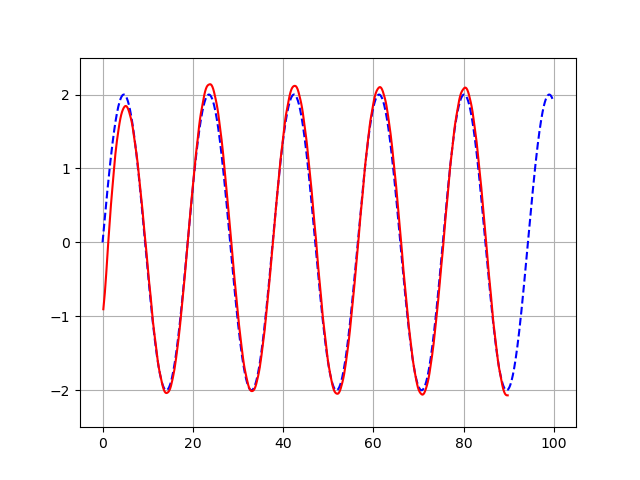
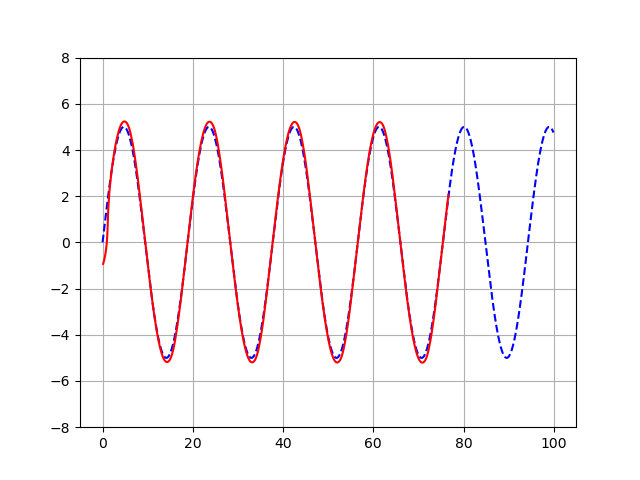
update pid_controller

diff --git a/path_tracking/test/pid_controller_test.cc b/path_tracking/test/pid_controller_test.cc
@@ -25,54 +25,71 @@ double calTargetIndex(vector<double> robot_state,
     dists.push_back(dist);
   }
   return min_element(dists.begin(), dists.end()) -
-         dists.begin(); //返回vector最小元素的下标
+         dists.begin(); // 返回vector最小元素的下标
 }
 
 int main() {
   vector<vector<double>> refer_path(1000, vector<double>(2));
-  vector<double> refer_x, refer_y; //保存参考数据用于画图
+  vector<double> refer_x, refer_y; // 保存参考数据用于画图
   // 生成参考轨迹
   for (int i = 0; i < 1000; i++) {
     refer_path[i][0] = 0.1 * i;
-    refer_path[i][1] = 2 * sin(refer_path[i][0] / 3.0);
+    refer_path[i][1] = 5 * sin(refer_path[i][0] / 3.0);
     refer_x.push_back(refer_path[i][0]);
     refer_y.push_back(refer_path[i][1]);
     //        cout<<refer_path[i][0]<<" ,"<<refer_path[i][1]<<endl;
   }
 
   // 运动学模型
-  KinematicModel ugv(0, -1, 0.5, 2, 2, 0.1);
+  KinematicModel ugv(0, -1, 0.5, 1.5, 2, 0.1);
 
-  // PID控制器
-  PID_controller PID(2.0, 0.01, 50, 0., PI / 6, -PI / 6);
-  //保存机器人（小车）运动过程中的轨迹
+  // PID控制器，用PID限制转角误差
+  PID_controller PID(3.0, 0.01, 30, 0., PI / 4, -PI / 4);
+  // 保存机器人（小车）运动过程中的轨迹
   vector<double> x_, y_;
-  //机器人状态
+  // 机器人状态
   vector<double> robot_state(2);
-  //运行500个回合
-  for (int i = 0; i < 500; i++) {
+  // 运行500个回合
+  for (int i = 0; i < 800; i++) {
     plt::clf();
     robot_state[0] = ugv.x;
     robot_state[1] = ugv.y;
-    //参考博客中的公式
+    // 参考博客中的公式
     double min_ind = calTargetIndex(robot_state, refer_path);
+    cout << i << " robot_state: x: " << robot_state[0]
+         << ", y:" << robot_state[1] << endl;
+    cout << i << " refer_path: x: " << refer_path[min_ind][0]
+         << ", y:" << refer_path[min_ind][1] << endl;
+    // 计算当前位置和轨迹最近点的相对位姿
+    // 朝向
     double alpha = atan2(refer_path[min_ind][1] - robot_state[1],
                          refer_path[min_ind][0] - robot_state[0]);
+    // 距离
     double l_d = sqrt(pow(refer_path[min_ind][0] - robot_state[0], 2) +
                       pow(refer_path[min_ind][1] - robot_state[1], 2));
+
+    if (sqrt(pow(refer_path[refer_path.size() - 1][0] - robot_state[0], 2) +
+             pow(refer_path[refer_path.size() - 1][1] - robot_state[1], 2)) <
+        0.1)
+      break;
+
+    // 计算偏航角
     double theta_e = alpha - ugv.psi;
-    double e_y = -l_d * sin(theta_e);
+    double e_y = -l_d * sin(theta_e); // 计算ugv.psi方向的距离
     double delta_f = PID.calOutput(e_y);
-    //更新机器人状态
-    ugv.updateState(0, delta_f);
+    std::cout << "PID error output: " << delta_f << std::endl;
+    // 更新机器人状态
+    ugv.updateState(0, delta_f); // accel =0 小车保持匀速，将PID输出作为转向角
+    // 记录当前小车位置
     x_.push_back(ugv.x);
     y_.push_back(ugv.y);
-    // cout<<ugv.x<<","<<ugv.y<<endl;
-    //画图
+    cout << i << " update car pose: x: " << ugv.x << ", y:" << ugv.y
+         << ", psi: " << ugv.psi << ", v: " << ugv.v << endl;
+    // 画图
     plt::plot(refer_x, refer_y, "b--");
     plt::plot(x_, y_, "r");
     plt::grid(true);
-    plt::ylim(-2.5, 2.5);
+    plt::ylim(-8, 8);
     plt::pause(0.01);
   }
   // save figure

diff --git a/path_tracking/utils/kinematic_model.h b/path_tracking/utils/kinematic_model.h
@@ -8,10 +8,15 @@
 using namespace std;
 using namespace Eigen;
 
-// 移动机器人运动学模型（单车模型）
+// 移动机器人运动学模型（以后轴为车辆中心的单车运动模型）
 class KinematicModel {
 public:
-  double x, y, psi, v, L, dt;
+  double x;
+  double y;
+  double psi; // 车身方向与水平轴夹角，也叫航向角
+  double v;
+  double L;  // 前后轴距
+  double dt; // 采样时间
 
 public:
   KinematicModel();
@@ -19,9 +24,9 @@ public:
   /// @brief 机器人运动学模型
   /// @param x 位置x
   /// @param y 位置y
-  /// @param psi 偏航角
+  /// @param psi 车身方向与水平轴夹角
   /// @param v 速度
-  /// @param l 轴距
+  /// @param l 前后轴距
   /// @param dt 采样时间
   KinematicModel(double x, double y, double psi, double v, double l, double dt);
 
@@ -32,9 +37,9 @@ public:
   /// @param delta_f
   void updateState(double accel, double delta_f);
 
-  /// @brief 将模型离散化后的状态空间表达
+  /// @brief 将模型离散化后的状态空间矩阵
   /// @param ref_delta 名义控制输入
-  /// @param ref_yaw 名义偏航角
+  /// @param ref_yaw 车辆与水平轴夹角，偏航角
   /// @return
   vector<MatrixXd> stateSpace(double ref_delta, double ref_yaw);
 };

diff --git a/path_tracking/utils/kinematic_model.cc b/path_tracking/utils/kinematic_model.cc
@@ -3,6 +3,7 @@
 KinematicModel::KinematicModel(double x, double y, double psi, double v,
                                double l, double dt)
     : x(x), y(y), psi(psi), v(v), L(l), dt(dt) {}
+
 void KinematicModel::updateState(double accel, double delta_f) {
   x = x + v * cos(psi) * dt;
   y = y + v * sin(psi) * dt;
@@ -14,8 +15,11 @@ vector<double> KinematicModel::getState() { return {x, y, psi, v}; }
 
 vector<MatrixXd> KinematicModel::stateSpace(double ref_delta, double ref_yaw) {
   MatrixXd A(3, 3), B(3, 2);
+  // A是状态空间表达式对x,y,车身与水平轴夹角的jacobi矩阵
   A << 1.0, 0.0, -v * dt * sin(ref_yaw), 0.0, 1.0, v * dt * cos(ref_yaw), 0.0,
       0.0, 1.0;
+
+  // B是状态空间表达式对速度，轮子转向角的jacobi矩阵
   B << dt * cos(ref_yaw), 0, dt * sin(ref_yaw), 0, dt * tan(ref_delta) / L,
       v * dt / (L * cos(ref_delta) * cos(ref_delta));
   return {A, B};

diff --git a/path_tracking/src/pid_controller.cc b/path_tracking/src/pid_controller.cc
@@ -23,10 +23,13 @@ double PID_controller::calOutput(double state) {
   this->error = this->target - state;
   double u = this->error * this->kp + this->sum_error * this->ki +
              (this->error - this->pre_error) * this->kd;
+
+  // limit error bound
   if (u < this->lower)
     u = this->lower;
   else if (u > this->upper)
     u = this->upper;
+
   this->pre_error = this->error;
   this->sum_error = this->sum_error + this->error;
   return u;

diff --git a/README.md b/README.md
@@ -81,6 +81,10 @@ TODO:
 
 ## Path Tracking
 
+**PID Controller**
+
+![PID Controller](./support_files/image/path_tracking/pid_demo.png)
+
 ## task
 
 ## Usage
